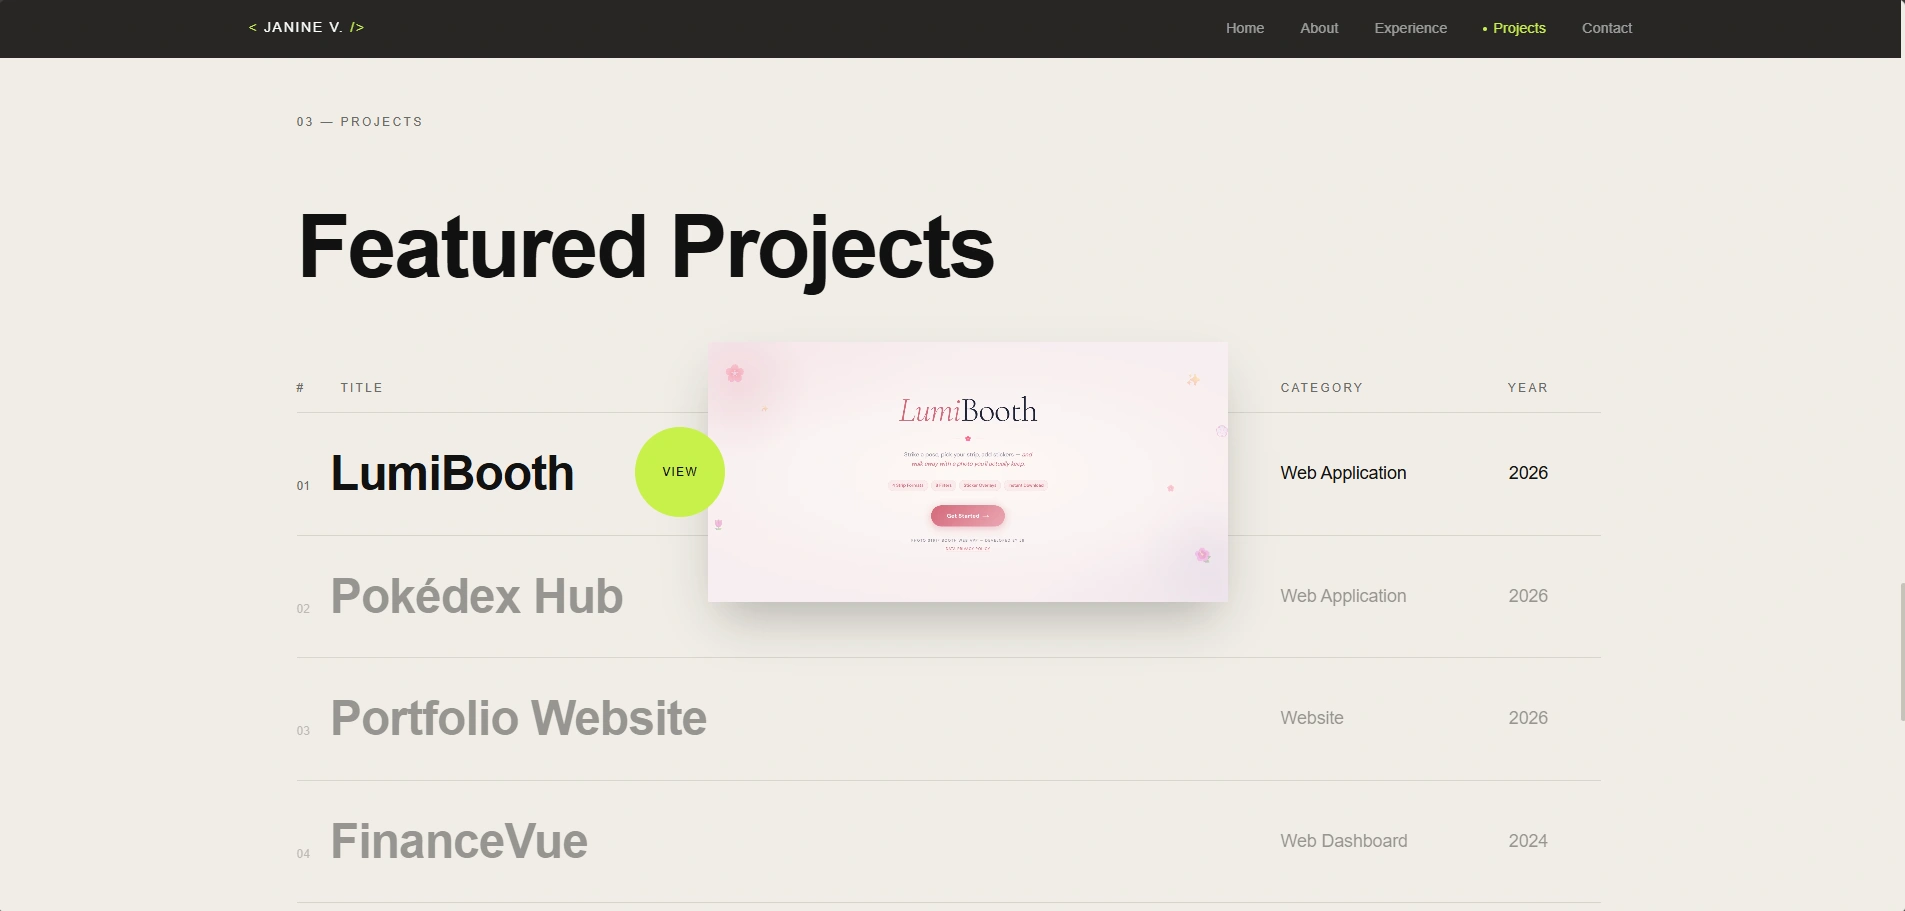
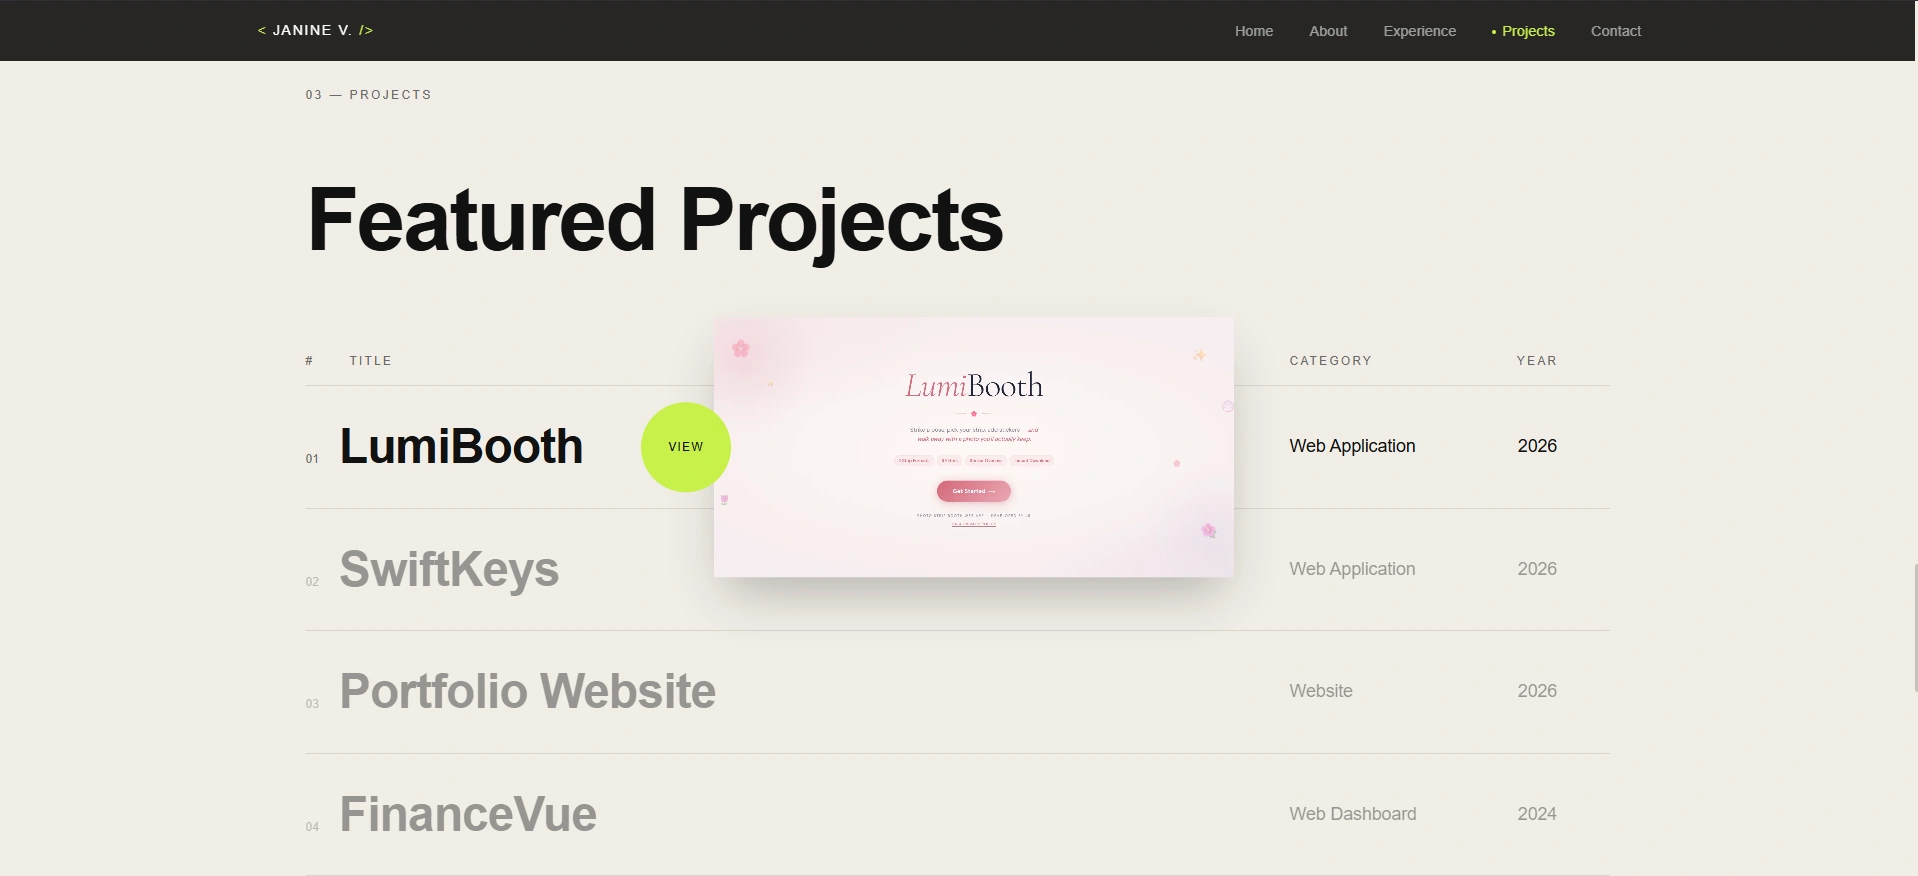
enh: replaced pokedexhub project into swiftkeys project

diff --git a/src/lib/data.ts b/src/lib/data.ts
@@ -2,8 +2,12 @@ import LumiBoothImg from "@/assets/images/lumibooth.webp";
 import LumiBoothImg2 from "@/assets/images/lumibooth2.webp";
 import LumiBoothImg3 from "@/assets/images/lumibooth3.webp";
 import LumiBoothImg4 from "@/assets/images/lumibooth4.webp";
-import PokedexHubImg from "@/assets/images/pokedexhub.webp";
-import PokedexHubImg2 from "@/assets/images/pokedexhub2.webp";
+import SwiftKeysImg from "@/assets/images/swiftkeys.webp";
+import SwiftKeysImg2 from "@/assets/images/swiftkeys2.webp";
+import SwiftKeysImg3 from "@/assets/images/swiftkeys3.webp";
+import SwiftKeysImg4 from "@/assets/images/swiftkeys4.webp";
+import SwiftKeysImg5 from "@/assets/images/swiftkeys5.webp";
+import SwiftKeysImg6 from "@/assets/images/swiftkeys6.webp";
 import FinanceVueImg from "@/assets/images/financevue.webp";
 import AquafusionImg from "@/assets/images/aquafusion.webp";
 import PortfolioImg from "@/assets/images/portfolio.webp";
@@ -107,17 +111,33 @@ export const portfolio = {
     },
     {
       id: "02",
-      title: "Pokédex Hub",
+      title: "SwiftKeys",
       category: "Web Application",
       description:
-        "A modern Pokédex web application powered by the PokéAPI, allowing users to browse more than 1,000 Pokémon with advanced filtering by type and generation, detailed stat views, evolution chains, and encounter information. Implemented with Nuxt, TypeScript, and optimized for fast loading and smooth navigation.",
-      tags: ["Nuxt", "TypeScript", "CSS", "PokéAPI", "Vercel"],
+        "A retro arcade-themed typing speed test web application that allows users to challenge their typing skills through multiple difficulty levels, customizable test durations, real-time WPM and accuracy tracking, and detailed score history analytics. Built with Next.js, TypeScript, and Tailwind CSS for a fast, responsive experience with immersive interactions and a polished pixel-art design.",
+      tags: [
+        "Next.js",
+        "React",
+        "TypeScript",
+        "Tailwind CSS",
+        "Framer Motion",
+        "Recharts",
+        "Web Audio API",
+        "Vercel",
+      ],
       year: "2026",
-      images: [PokedexHubImg, PokedexHubImg2],
+      images: [
+        SwiftKeysImg,
+        SwiftKeysImg2,
+        SwiftKeysImg3,
+        SwiftKeysImg4,
+        SwiftKeysImg5,
+        SwiftKeysImg6,
+      ],
       hasUrl: true,
-      url: "https://pokedexhub.vercel.app/",
+      url: "https://swiftkeys-wpm.vercel.app/",
       hasGithub: true,
-      github: "https://github.com/janinevallente/pokedex-app",
+      github: "https://github.com/janinevallente/swiftkeys",
       hasPublication: false,
       publication: "",
       featured: true,

diff --git a/README.md b/README.md
@@ -161,7 +161,7 @@ Add a new entry to the `projects` array in `data.ts`:
 | #   | Project                                                | Category           | Year      |
 | --- | ------------------------------------------------------ | ------------------ | --------- |
 | 01  | [LumiBooth](https://lumibooth.vercel.app)              | Web Application    | 2026      |
-| 02  | [Pokédex Hub](https://pokedexhub.vercel.app)           | Web Application    | 2026      |
+| 02  | [SwiftKeys](https://swiftkeys-wpm.vercel.app)          | Web Application    | 2026      |
 | 03  | [Portfolio Website](https://janinevallente.vercel.app) | Website            | 2026      |
 | 04  | FinanceVue                                             | Web Dashboard      | 2024      |
 | 05  | AquaFusion Mobile                                      | Mobile Application | 2023–2024 |